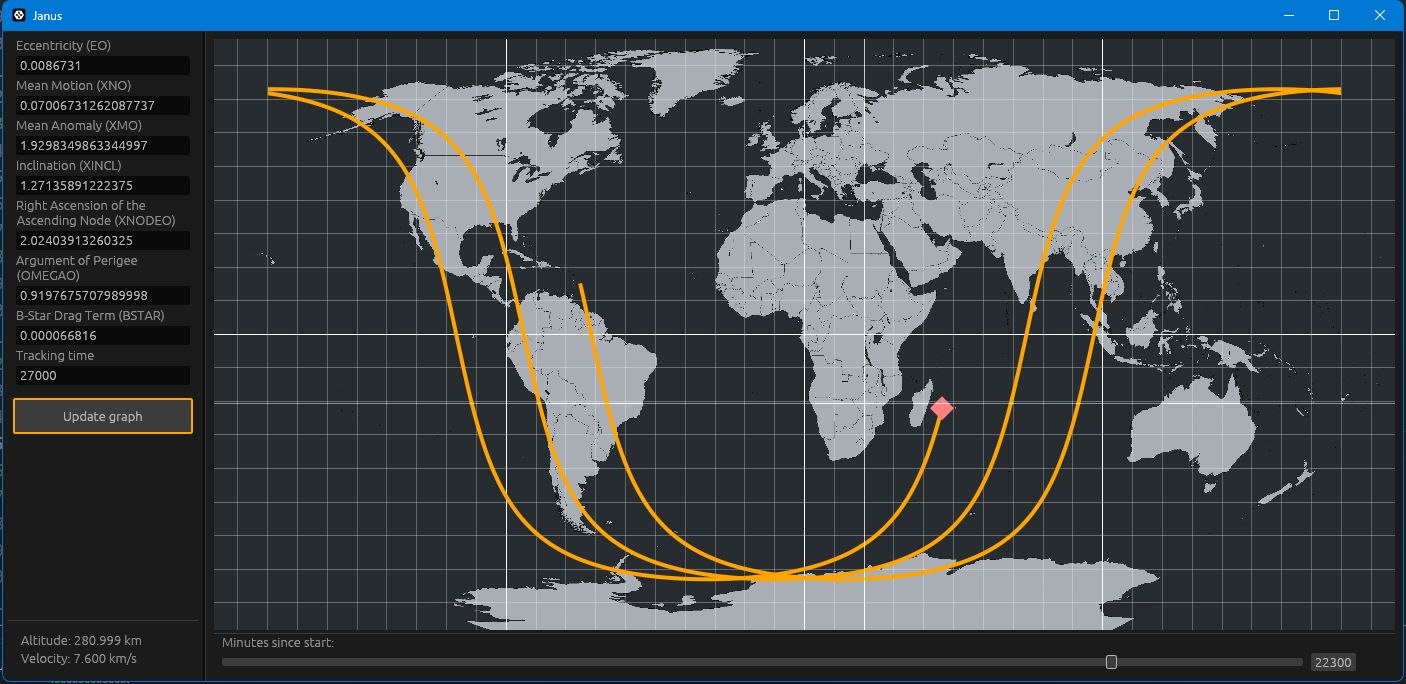
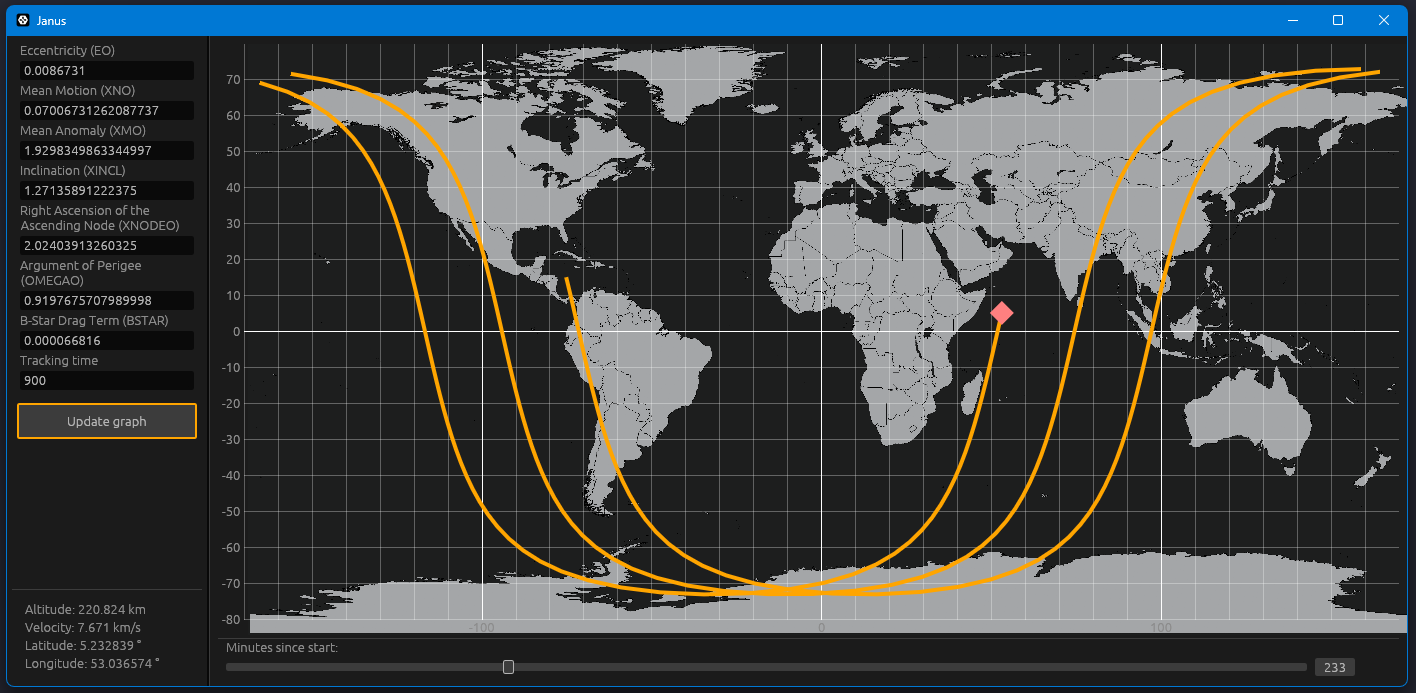
map better aligned with orbit coordinates

diff --git a/src/renderer.rs b/src/renderer.rs
@@ -2,7 +2,7 @@ use eframe::egui;
 use eframe::egui::Color32;
 use egui::Vec2;
 use egui_plot::Line;
-use egui_plot::{Plot, PlotPoints, Points};
+use egui_plot::{Plot, PlotBounds, PlotPoints, Points};
 
 use crate::test_constants;
 use crate::types;
@@ -225,7 +225,10 @@ impl eframe::App for Renderer {
             let mut panel_rect = ui.available_rect_before_wrap();
             panel_rect.set_height(panel_rect.width() / 2.0);
 
-            egui::Image::new(egui::include_image!(".././images/map.png")).paint_at(ui, panel_rect);
+            let offset_x = 30.0;
+            let image_rect = panel_rect.translate(egui::vec2(offset_x, 0.0));
+
+            egui::Image::new(egui::include_image!(".././images/map.png")).paint_at(ui, image_rect);
 
             let orbit = PlotPoints::new(
                 self.data_points
@@ -244,7 +247,7 @@ impl eframe::App for Renderer {
             .shape(egui_plot::MarkerShape::Diamond)
             .color(egui::Color32::LIGHT_RED);
 
-            let max_x = 180.0;
+            let max_x = 170.0;
             let max_y = 80.0;
 
             Plot::new("orbit_plot")
@@ -253,14 +256,15 @@ impl eframe::App for Renderer {
                 .allow_zoom(false)
                 .allow_scroll(false)
                 .grid_color(Color32::WHITE)
-                .show_axes(false)
+                // .show_axes(false)
                 .width(panel_rect.width())
                 .height(panel_rect.height())
-                .include_x(-max_x)
-                .include_x(max_x)
-                .include_y(-max_y)
-                .include_y(max_y)
                 .show(ui, |plot_ui| {
+                    plot_ui.set_plot_bounds(PlotBounds::from_min_max(
+                        [-max_x, -max_y],
+                        [max_x, max_y],
+                    ));
+
                     plot_ui.line(line);
 
                     plot_ui.points(points);
